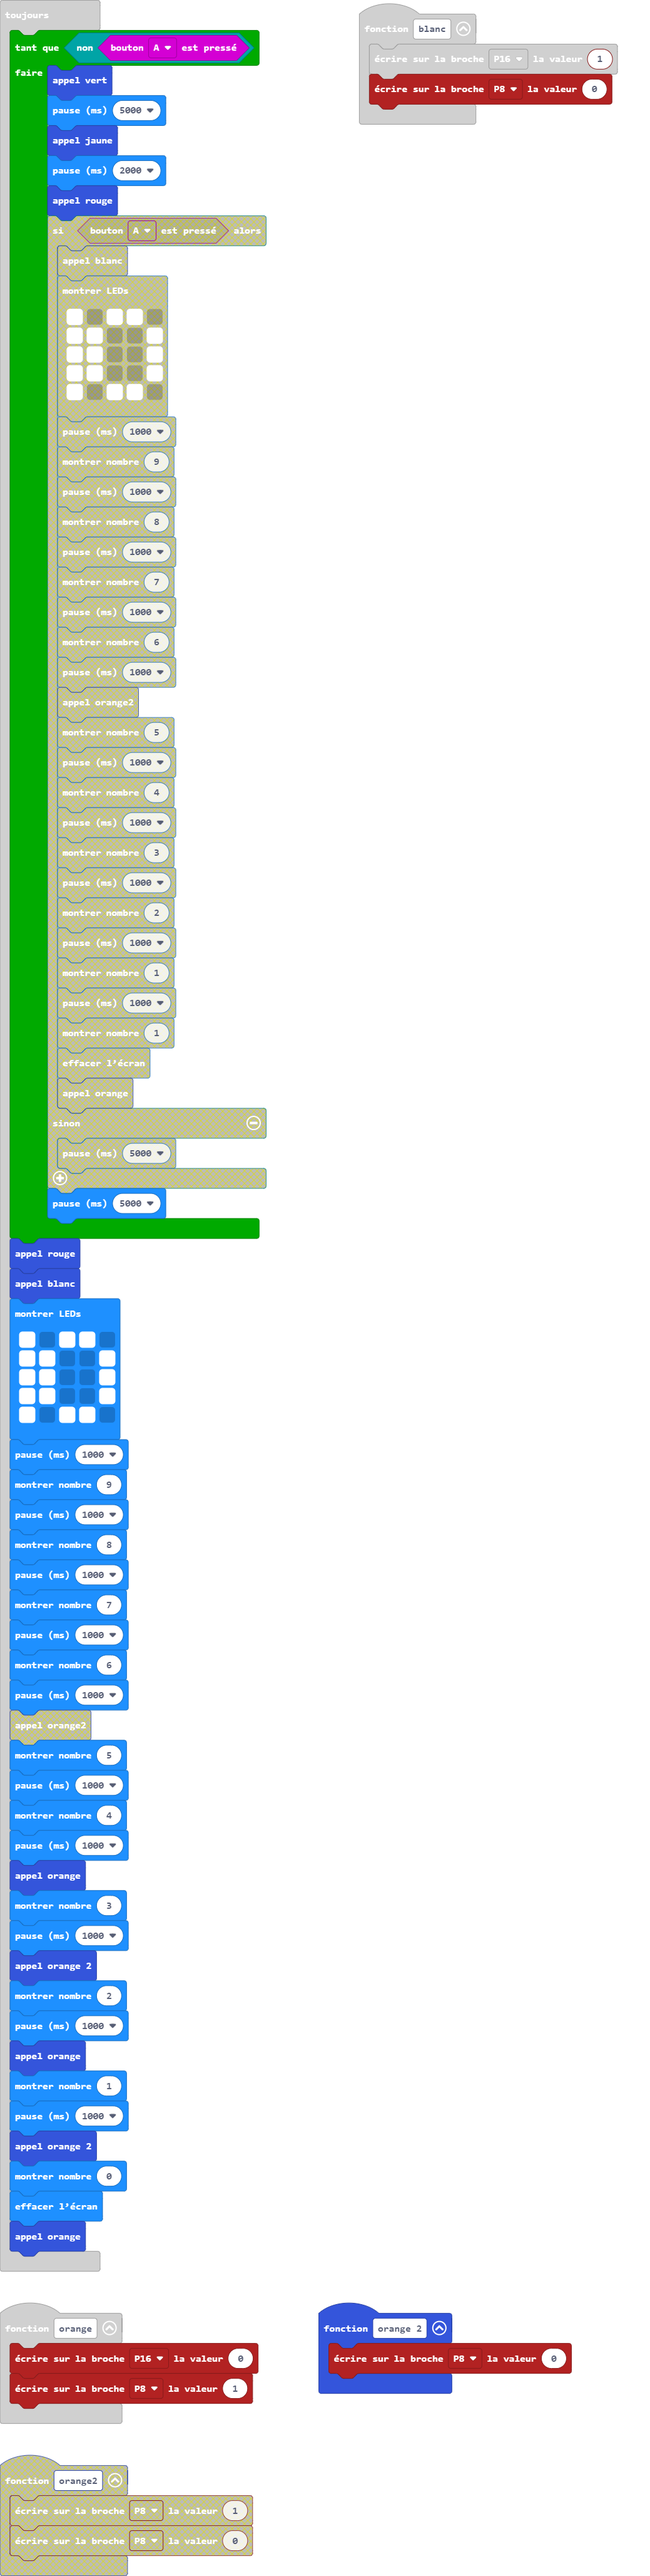
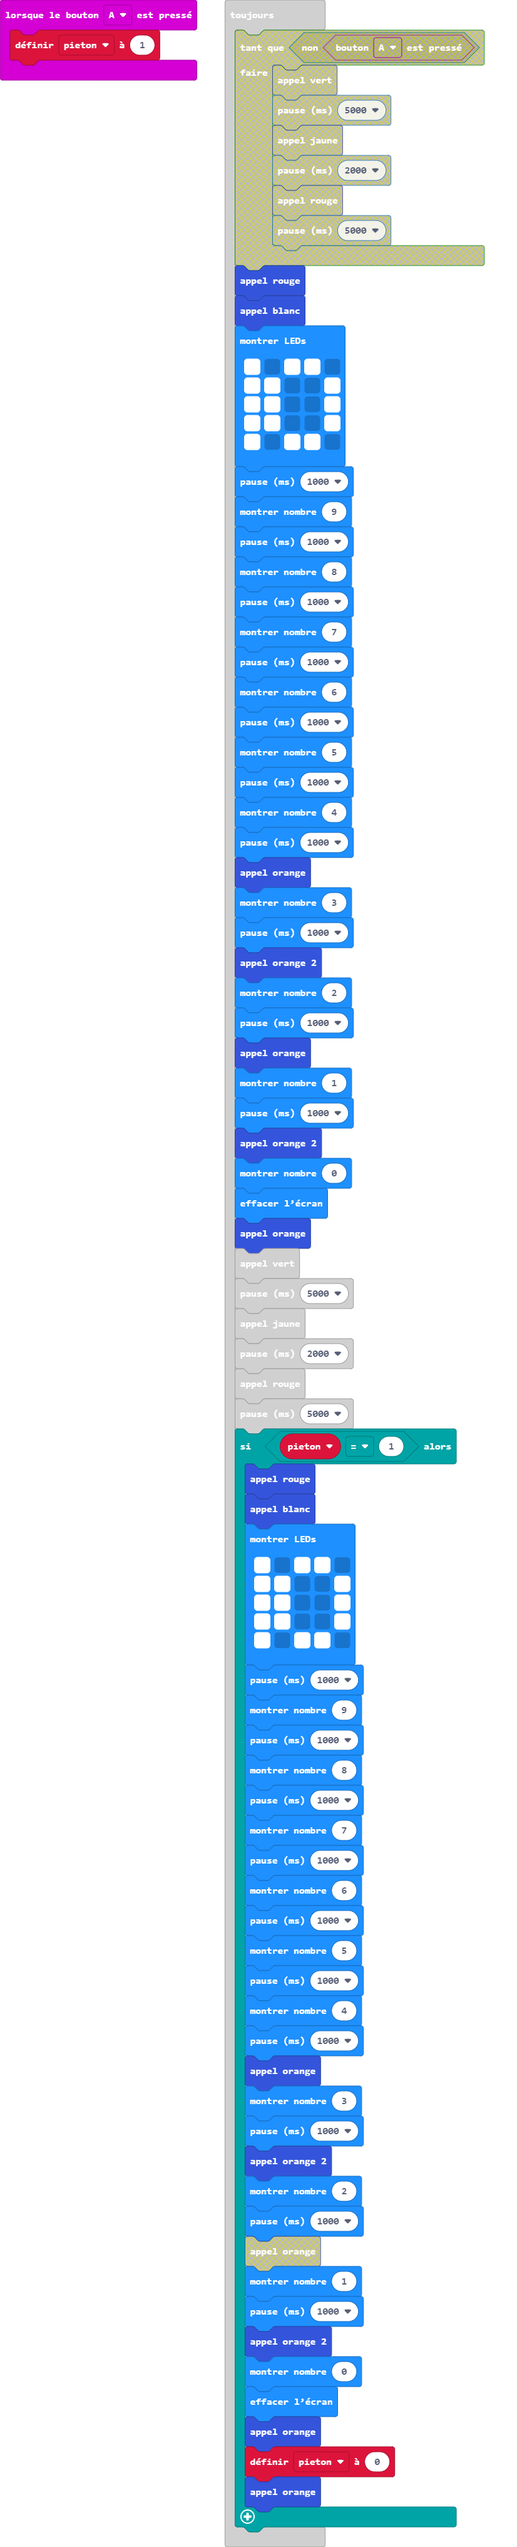
Mise à jour main.blocks, main.ts

diff --git a/main.ts b/main.ts
@@ -1,8 +1,12 @@
+let pieton = 0
 function jaune () {
     pins.digitalWritePin(DigitalPin.P0, 0)
     pins.digitalWritePin(DigitalPin.P1, 1)
     pins.digitalWritePin(DigitalPin.P2, 0)
 }
+input.onButtonPressed(Button.A, function () {
+    pieton = 1
+})
 function orange_2 () {
     pins.digitalWritePin(DigitalPin.P8, 0)
 }
@@ -25,47 +29,48 @@ function vert () {
     pins.digitalWritePin(DigitalPin.P2, 0)
 }
 basic.forever(function () {
-    while (!(input.buttonIsPressed(Button.A))) {
-        vert()
-        basic.pause(5000)
-        jaune()
-        basic.pause(2000)
-        rouge()
-        basic.pause(5000)
-    }
+    vert()
+    basic.pause(5000)
+    jaune()
+    basic.pause(2000)
     rouge()
-    blanc()
-    basic.showLeds(`
-        # . # # .
-        # # . . #
-        # # . . #
-        # # . . #
-        # . # # .
-        `)
-    basic.pause(1000)
-    basic.showNumber(9)
-    basic.pause(1000)
-    basic.showNumber(8)
-    basic.pause(1000)
-    basic.showNumber(7)
-    basic.pause(1000)
-    basic.showNumber(6)
-    basic.pause(1000)
-    basic.showNumber(5)
-    basic.pause(1000)
-    basic.showNumber(4)
-    basic.pause(1000)
-    orange()
-    basic.showNumber(3)
-    basic.pause(1000)
-    orange_2()
-    basic.showNumber(2)
-    basic.pause(1000)
-    orange()
-    basic.showNumber(1)
-    basic.pause(1000)
-    orange_2()
-    basic.showNumber(0)
-    basic.clearScreen()
-    orange()
+    basic.pause(5000)
+    if (pieton == 1) {
+        rouge()
+        blanc()
+        basic.showLeds(`
+            # . # # .
+            # # . . #
+            # # . . #
+            # # . . #
+            # . # # .
+            `)
+        basic.pause(1000)
+        basic.showNumber(9)
+        basic.pause(1000)
+        basic.showNumber(8)
+        basic.pause(1000)
+        basic.showNumber(7)
+        basic.pause(1000)
+        basic.showNumber(6)
+        basic.pause(1000)
+        basic.showNumber(5)
+        basic.pause(1000)
+        basic.showNumber(4)
+        basic.pause(1000)
+        orange()
+        basic.showNumber(3)
+        basic.pause(1000)
+        orange_2()
+        basic.showNumber(2)
+        basic.pause(1000)
+        orange()
+        basic.showNumber(1)
+        basic.pause(1000)
+        orange_2()
+        basic.showNumber(0)
+        basic.clearScreen()
+        orange()
+        pieton = 0
+    }
 })
